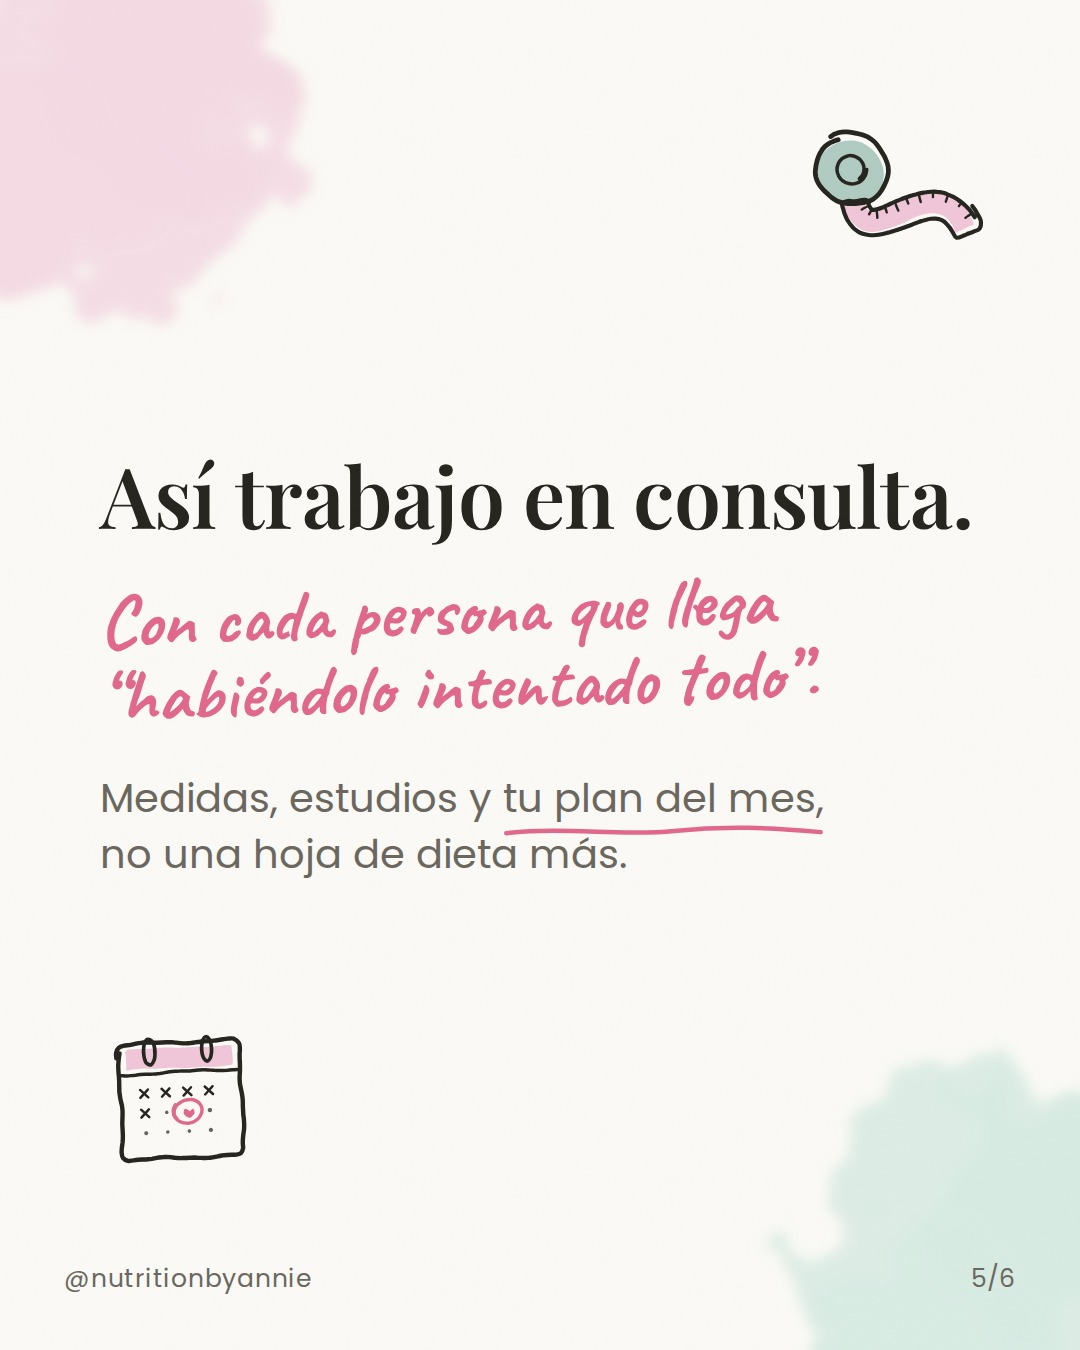
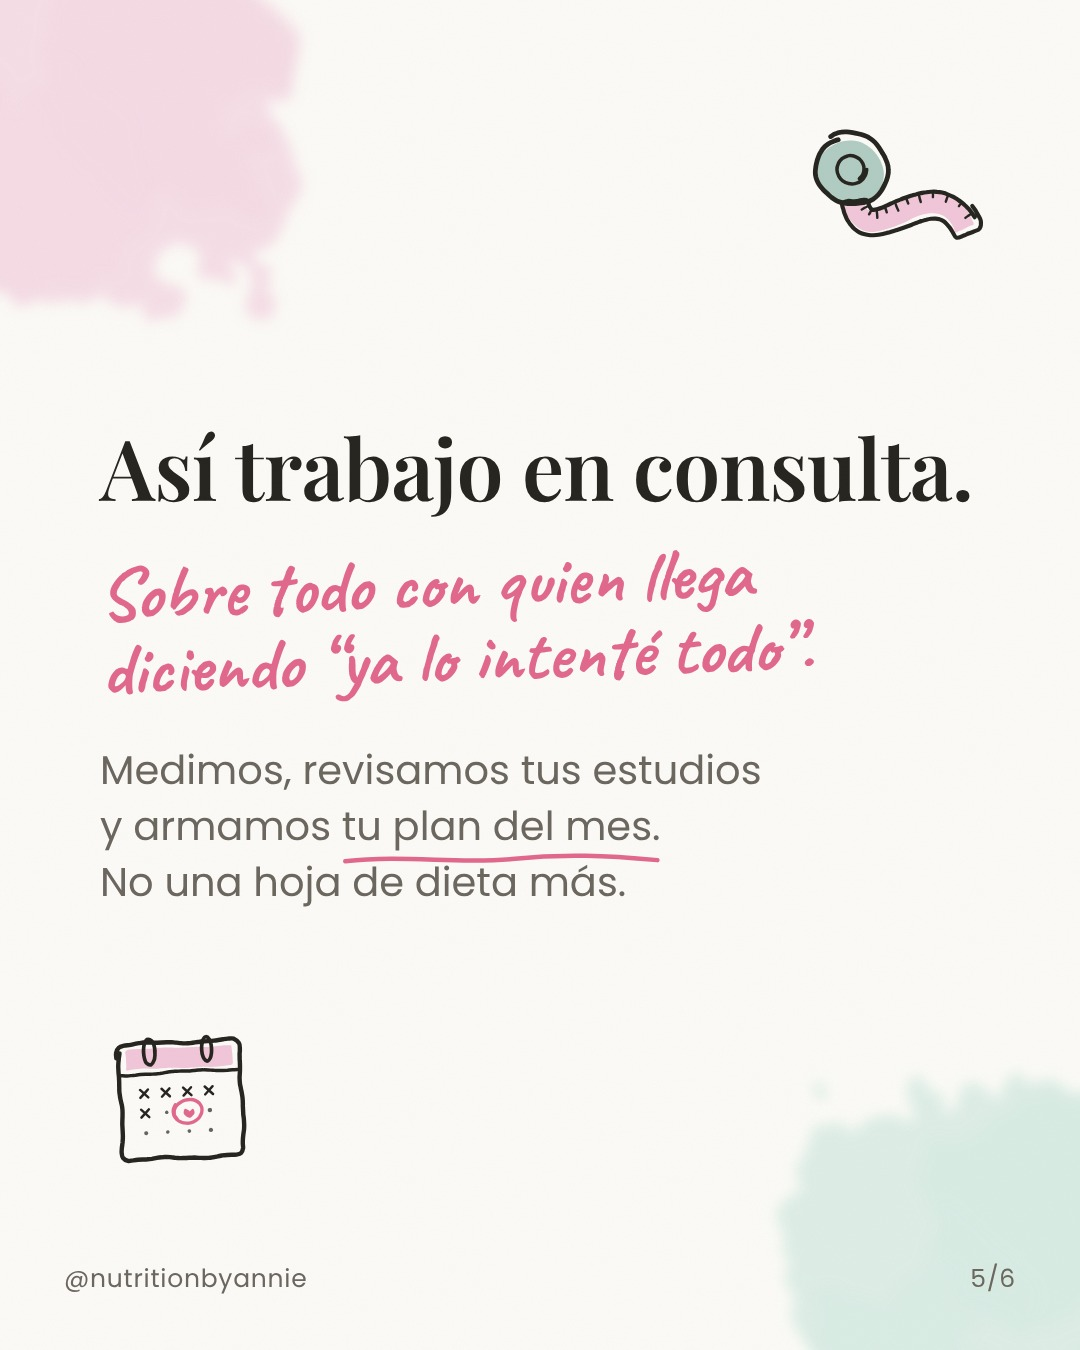
Pieza 4: nueva redacción de la slide 5
Claude-Session: https://claude.ai/code/session_01GqNWj1U3wsbnxpwNw6j7E7

diff --git a/sistema/build_specs.py b/sistema/build_specs.py
@@ -101,8 +101,8 @@ P.append(dict(n=4, slug="p04-carpeta-de-dietas", title="La carpeta de dietas", p
     {"type":"list","title":"Entonces guardamos la carpeta y empezamos por&nbsp;ti:","size":70,"bullet":"✓","panel":"salvia","washi":"",
      "items":["Tus estudios antes de cualquier menú","Un plan con la comida que ya hay en tu casa","Revisión cada mes, para ajustar, no para regañar"],
      "stains":st('menta','tr','bl'),"doodles":[d('estetoscopio',TR,190,6,dy=5),d('lapiz',BR,180,-8)]},
-    {"type":"statement","title":"Así trabajo en consulta.","whisper":"Con cada persona que llega “habiéndolo intentado todo”.",
-     "paren":"Medidas, estudios y [[u]]tu plan del mes,[[/u]] no una hoja de dieta más.",
+    {"type":"statement","title":"Así trabajo en consulta.","whisper":"Sobre todo con quien llega diciendo “ya lo intenté todo”.",
+     "paren":"Medimos, revisamos tus estudios y armamos [[u]]tu plan del mes.[[/u]] No una hoja de dieta más.",
      "stains":st('rosa','tl','br'),"doodles":[d('cinta-metrica',TR,200,8),d('calendario',BL,180,-8)]},
     cta("Sígueme","Si tú también tienes tu carpeta de dietas…","aquí vamos a hablar de todo lo que [[u]]ninguna te preguntó.[[/u]]",
         [d('flecha-rizo',(90,800),190,-4),d('lentes',(330,790),170,6),d('sandia',TR,190,-8)]),
